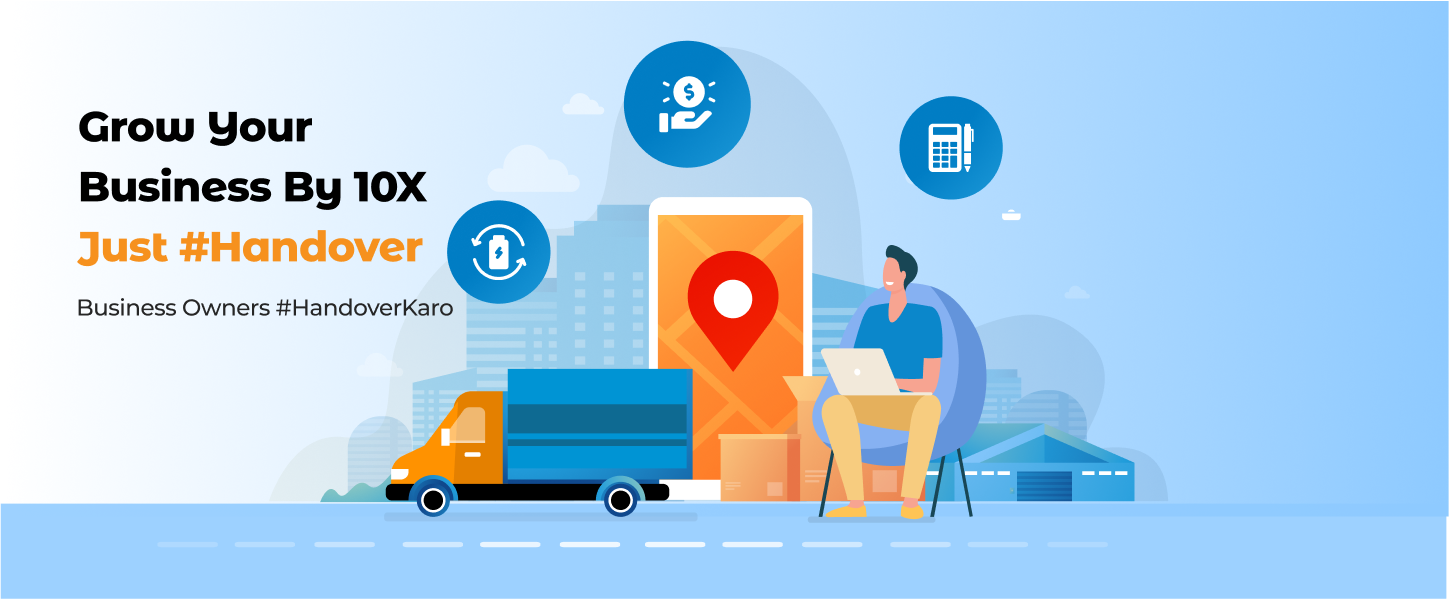
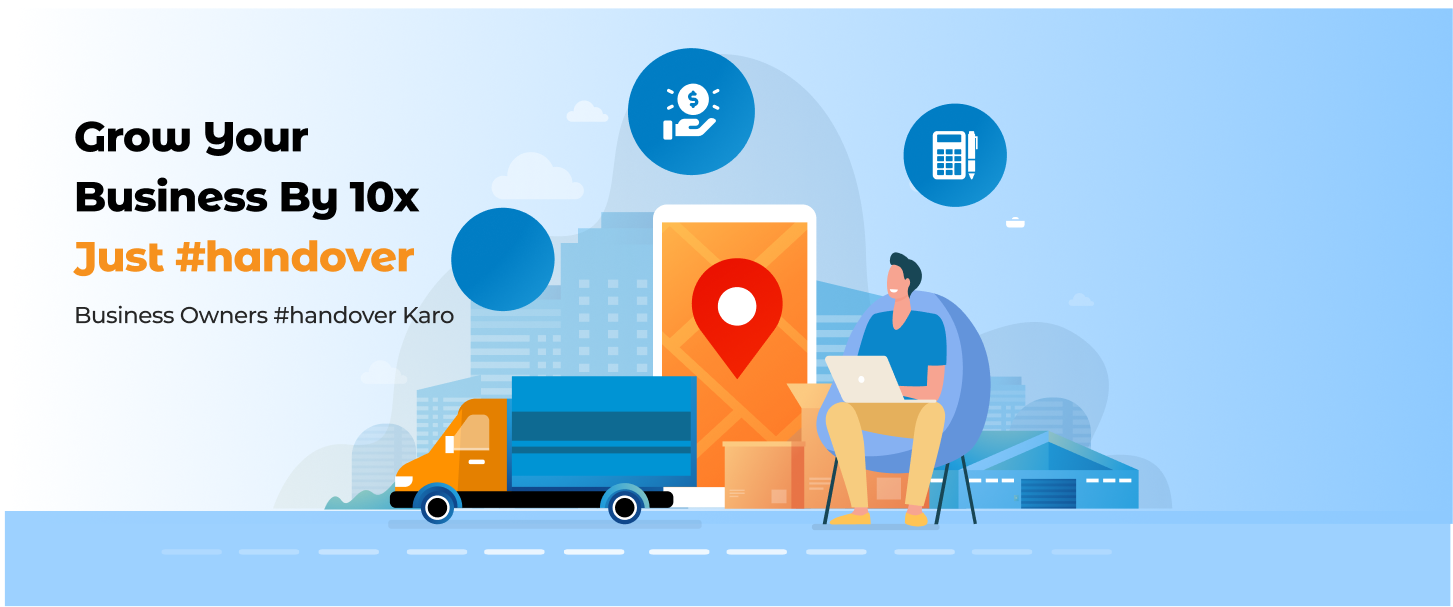
updated code

diff --git a/src/Pages/DeliveryPartners.js b/src/Pages/DeliveryPartners.js
@@ -165,7 +165,7 @@ const DeliveryPartners = () => {
             </Container>
             {/* Second Section */}
             <div className='d-flex py-5 flex-column align-items-center justify-content-center'>
-                <h1>Handover में Delivery Partner बनने के फायदे</h1>
+                <h1>handover में Delivery Partner बनने के फायदे</h1>
                 <div className='row my-4' style={{ width: "100%" }}>
                     <div className='d-flex flex-column gap-3 align-items-center col-md-4 col-12 '>
                         {DeliveryPartnersData.slice(0, 3).map((item, index) => {
@@ -197,8 +197,8 @@ const DeliveryPartners = () => {
             <HandOverStatistics />
             {/* Careers */}
             <Container className="p-0 d-flex flex-column gap-2 align-items-center " style={{ position: "relative" }}>
-                <h3 className='mt-4 mb-4 fw-bold'>Careers @Handover</h3>
-                <p>Besides offering a promising ‘Delivery Partner’ job, Handover, as a brand, has many more opportunities up for grabs. These could be in operations, finance, technology, etc. So, if you know how to deliver multiple tasks and are a problem-solver, we would like to talk to you! Send your resume now!</p>
+                <h3 className='mt-4 mb-4 fw-bold'>Careers @handover</h3>
+                <p>Besides offering a promising ‘Delivery Partner’ job, handover, as a brand, has many more opportunities up for grabs. These could be in operations, finance, technology, etc. So, if you know how to deliver multiple tasks and are a problem-solver, we would like to talk to you! Send your resume now!</p>
                 <div className='mt-2'>
                     <div style={{ width: "100%" }}>
                         <img src="./career_banner.png" alt="Career Banner" style={{ width: "100%" }} />

diff --git a/src/Pages/Retailer.js b/src/Pages/Retailer.js
@@ -144,7 +144,7 @@ const Retailer = () => {
             </Container>
             {/* Second Section */}
             <div className='d-flex py-5 flex-column align-items-center justify-content-center'>
-                <h1>Handover से जुड़ने के फायदें </h1>
+                <h1>handover से जुड़ने के फायदें </h1>
                 <div className='row d-flex align-items-center' style={{ width: "100%" }}>
                     <div className='d-flex flex-column gap-3 align-items-center col-md-4 col-12 '>
                         {RetailersData.slice(0, 3).map((item, index) => {
@@ -176,8 +176,8 @@ const Retailer = () => {
             <HandOverStatistics />
             {/* Careers */}
             <Container className="p-md-0 p-2 d-flex flex-column gap-2 align-items-center " style={{ position: "relative" }}>
-                <h3 className='mt-4 mb-4 fw-bold'>Careers @Handover</h3>
-                <p>Besides offering a promising ‘Delivery Partner’ job, Handover, as a brand, has many more opportunities up for grabs. These could be in operations, finance, technology, etc. So, if you know how to deliver multiple tasks and are a problem-solver, we would like to talk to you! Send your resume now!</p>
+                <h3 className='mt-4 mb-4 fw-bold'>Careers @handover</h3>
+                <p>Besides offering a promising ‘Delivery Partner’ job, handover, as a brand, has many more opportunities up for grabs. These could be in operations, finance, technology, etc. So, if you know how to deliver multiple tasks and are a problem-solver, we would like to talk to you! Send your resume now!</p>
                 <div className='mt-2'>
                     <div style={{ width: "100%" }}>
                         <img src="./career_banner.png" alt="Career Banner" style={{ width: "100%" }} />

diff --git a/src/Pages/Aboutus/Aboutus.js b/src/Pages/Aboutus/Aboutus.js
@@ -47,7 +47,7 @@ const Aboutus = () => {
           <div className='col-md-3 d-flex flex-column flex-wrap gap-2 justify-content-center '>
             <h4 className='fw-bold'>About Us</h4>
             <p className='m-0 p-0' style={{ fontWeight: "300" }}>
-              Handover is a low-cost, safe and reliable delivery service provider to businesses across 35 cities of India. It has 1000+ registered Delivery Partners who deliver products through an extensive logistics fleet comprising trucks, electric vehicles and 3-wheelers.
+              handover is a low-cost, safe and reliable delivery service provider to businesses across 35 cities of India. It has 1000+ registered Delivery Partners who deliver products through an extensive logistics fleet comprising trucks, electric vehicles and 3-wheelers.
             </p>
           </div>
           <div className='col-md-9 d-flex flex-wrap gap-2 justify-content-evenly' >{

diff --git a/src/Components/Footer.js b/src/Components/Footer.js
@@ -70,9 +70,9 @@ const Footer = () => {
                         </div>
                         <div className='div2'>
                             <img className='imagee2' src="./imagee2.png"></img>
-                            <li><Link to="">+91 837837897</Link></li>
+                            <li><Link to="">+91 93113 39816</Link></li>
                         </div>
-                        
+
                         <div className='div3'>
                             <img className='imagee3' src="./imagee3.png"></img>
                             <img className='imagee4' src="./imagee4.png"></img>
